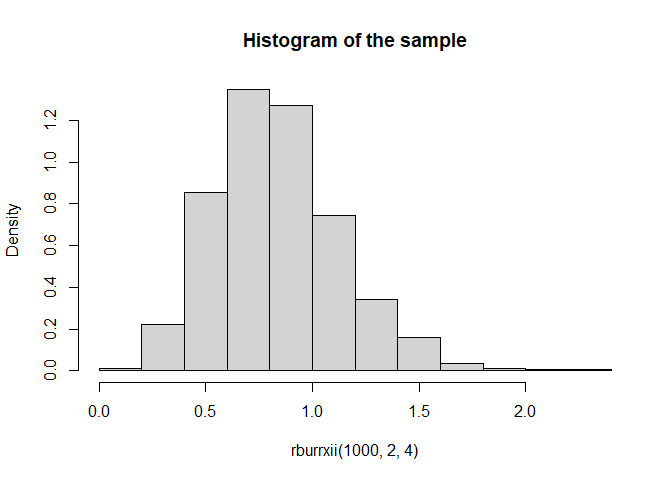
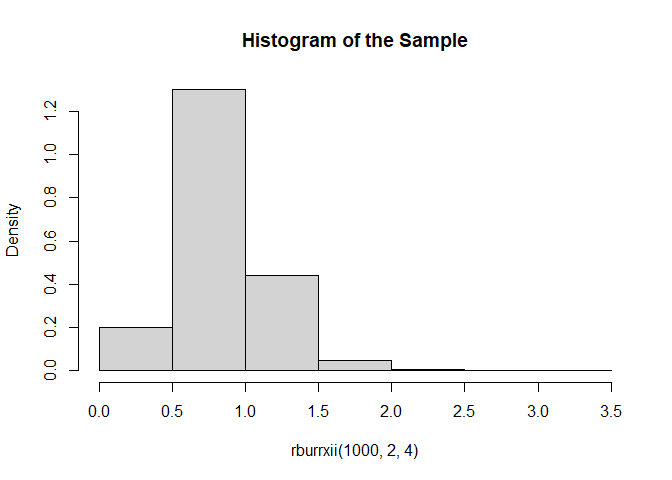
added a new function

diff --git a/README.md b/README.md
@@ -43,12 +43,12 @@ distribution with parameters shape1 and shape2.
 
 ``` r
 rburrxii(10, 2, 3)
-#>  [1] 0.3916599 0.3302186 0.9729286 1.0382671 0.8249860 0.6858643 0.4202429
-#>  [8] 1.4767603 0.7075502 0.5496158
+#>  [1] 1.0974049 0.5779157 0.8709173 0.8513088 0.9375570 0.3340798 0.4065357
+#>  [8] 0.7174570 0.5065897 2.2397891
 ```
 
 ``` r
-hist(rburrxii(1000, 2, 4), freq = FALSE, main = "Histogram of the sample")
+hist(rburrxii(1000, 2, 4), freq = FALSE, main = "Histogram of the Sample")
 ```
 
 <img src="man/figures/README-unnamed-chunk-2-1.png" width="70%" />
@@ -58,12 +58,27 @@ distribution with parameters scale and shape.
 
 ``` r
 rparetoi(10, 3, 6)
-#>  [1] 3.350480 3.190786 3.347261 4.109502 3.569522 5.683499 3.608258 3.169733
-#>  [9] 3.587065 3.523597
+#>  [1] 3.331366 3.416477 4.395513 3.746907 3.246530 3.404517 3.311258 4.145592
+#>  [9] 3.134992 5.252068
 ```
 
 ``` r
-hist(rparetoi(1000, 10, 6), freq = FALSE, main = "Histogram of the sample")
+hist(rparetoi(1000, 10, 6), freq = FALSE, main = "Histogram of the Sample")
 ```
 
-<img src="man/figures/README-unnamed-chunk-3-1.png" width="75%" />
+<img src="man/figures/README-unnamed-chunk-3-1.png" width="70%" />
+
+Function `rloglogis` generates random data following a Log-logistic
+distribution with parameters scale and shape.
+
+``` r
+rloglogis(10, 3, 6)
+#>  [1] 4.258138 2.767869 3.293448 2.365414 2.611447 2.980018 3.353399 2.632729
+#>  [9] 2.479938 2.788551
+```
+
+``` r
+hist(rloglogis(1000, 1, 8), freq = FALSE, main = "Histogram of the Sample")
+```
+
+<img src="man/figures/README-unnamed-chunk-4-1.png" width="70%" />
